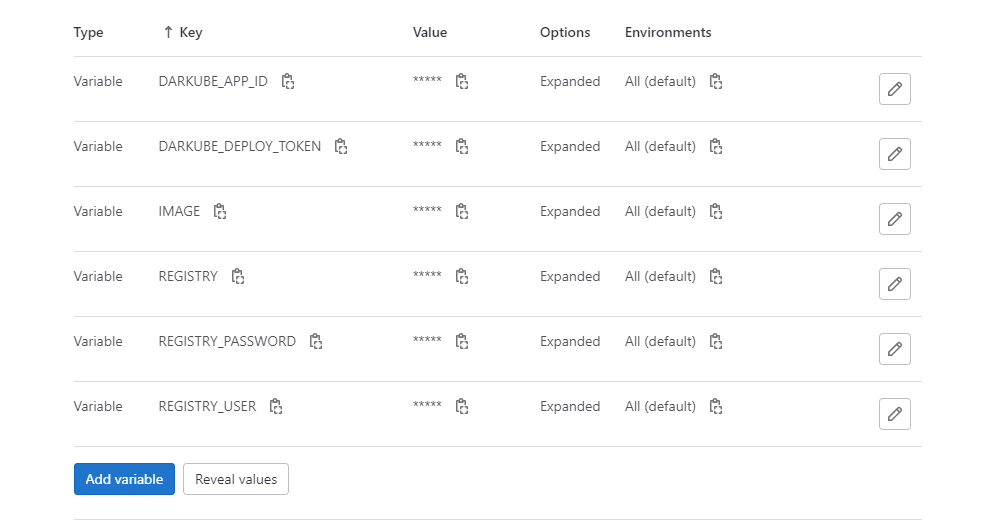
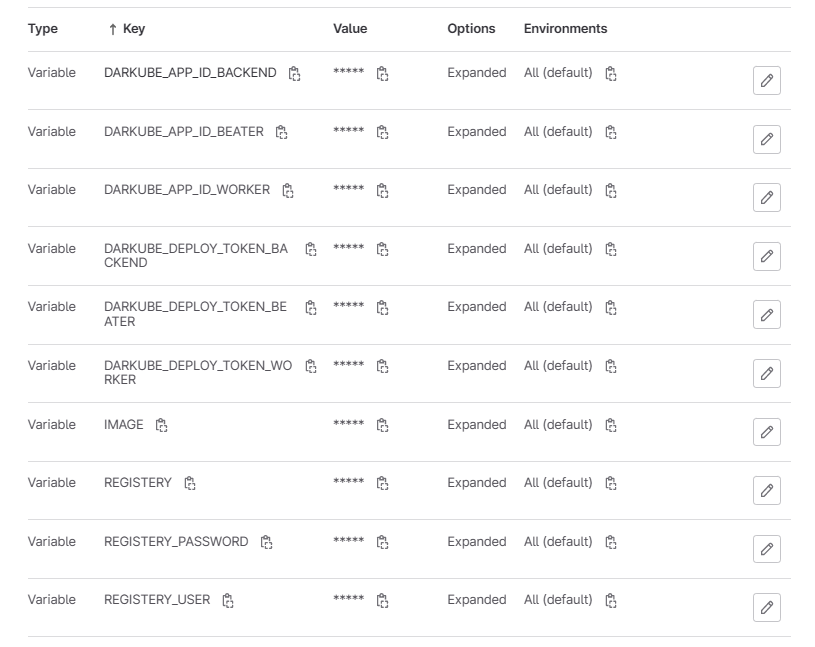
updated docs

diff --git a/README.md b/README.md
@@ -35,6 +35,8 @@
 - [CICD Deployment](#cicd-deployment)
   - [Github CICD](#github-cicd)
   - [Gitlab/Hamgit CICD](#gitlabhamgit-cicd)
+    - [Setup Worker and Beater](#setup-worker-and-beater)
+    - [Setup Environments](#setup-environments)
 - [Sentry Logger](#sentry-logger)
 - [License](#license)
 - [Bugs](#bugs)
@@ -222,10 +224,44 @@ for this section please follow the instructions for General Deployment of hamrav
 <https://github.com/AliBigdeli/Django-Hamravesh-Docker-Template#3--setup-django-app>
 
 ## 4- Setup Worker
-follow the provided steps to finish this section.
+Just Like what you have done in ```setup django app``` section you will do everything the same except that for configuration of the app there will be some minor changes 
+1 - Create the app based on repo and proceed to the general info section, and put these info:
+```properties
+app_name: my-site-worker # name of the app which is going to be called inside the portal
+service_port:  # leave this field as empty cause our service wont have outer access
+execute_command: celery -A core worker --loglevel=info
+```
+2- Environments:
+just as usual put all the environments that your project needs
+
+3- Domains:
+in this section dont add anything cause we are not going to use the app through the web, instead it will be called through the signals between apps and broker.
+
+4- plan:
+choose the correct plan for using the app, note that sometimes your app might go through loops cause of limited sources so that you need to upgrade the plan to find the better performance for that.
+
+5- Deploy:
+Lastly wait till the app is up and running correctly.
 
 ## 5- Setup Beater
-follow the provided steps to finish this section.
+Just Like what you have done in ```setup django app``` section you will do everything the same except that for configuration of the app there will be some minor changes 
+1 - Create the app based on repo and proceed to the general info section, and put these info:
+```properties
+app_name: my-site-worker # name of the app which is going to be called inside the portal
+service_port:  # leave this field as empty cause our service wont have outer access
+execute_command: celery -A core beat -l info
+```
+2- Environments:
+just as usual put all the environments that your project needs
+
+3- Domains:
+in this section dont add anything cause we are not going to use the app through the web, instead it will be called through the signals between apps and broker.
+
+4- plan:
+choose the correct plan for using the app, note that sometimes your app might go through loops cause of limited sources so that you need to upgrade the plan to find the better performance for that.
+
+5- Deploy:
+Lastly wait till the app is up and running correctly.
 
 # CICD Deployment
 For the sake of continuous integration and deployment i have provided two samples for github and gitlab/hamgit for you.
@@ -235,28 +271,45 @@ but there will be some configurations to be added for building and deploying pur
 will be provided soon
 
 ## Gitlab/Hamgit CICD
+
+### Setup Worker and Beater
+before going to configure cicd there is a little change that you need to make in the worker and beater configs in hamravesh panel, the docker image of each app should be pointed to backend image inorder for cicd to work correctly. in order to that just follow the instructions bellow:
+
+1- go to the backend app page, click on ```edit``` in ```image docker section```, then copy the provided link something like: ```registry.hamdocker.ir/bigdeliali3/my-site```
+<div align="center" ><img loading="lazy" style="width:700px" src="./docs/hamravesh-docker-image.png"></div>
+
+2- then go to the woker app page, again click on ```edit``` in ```image docker section``` , replace the link with the copied link from backend app.
+3- then go to the beater app page, again click on ```edit``` in ```image docker section``` , replace the link with the copied link from backend app.
+
+and now your good to go. 
+
+### Setup Environments
 in order to do ci/cd in the sample project for gitlab/hamgit you have to create a duplicate of the ```.gitlab-ci.yml.sample``` but with different name as ```.gitlab-ci.yml``` in the root directory.
 
 after that our pipeline will be always listening to the prod branch. if you commit in this branch it will go through the process.
 
-
 note that you have to declare 5 or more environment variables in your gitlab/hamgit project repo, which you can add it by going to ```Settings>CI/CD>Variables```, and in this section try to add all the needed variables.
+
 
 <div align="center" ><img loading="lazy" style="width:700px" src="./docs/gitlab-envs.png"></div>
 
 these variables should be included:
-- DARKUBE_APP_ID - ``` which can be found in app info page ```
-- DARKUBE_DEPLOY_TOKEN - ``` which can be found in app info page ```
+- DARKUBE_APP_ID_BACKEND - ``` which can be found in app info page of the backend project```
+- DARKUBE_DEPLOY_TOKEN_BACKEND - ``` which can be found in app info page of the backend project ```
+- DARKUBE_APP_ID_WORKER - ``` which can be found in app info page of the worker project```
+- DARKUBE_DEPLOY_TOKEN_WORKER - ``` which can be found in app info page of the worker project ```
+- DARKUBE_APP_ID_BEATER - ``` which can be found in app info page of the beater project```
+- DARKUBE_DEPLOY_TOKEN_BEATER - ``` which can be found in app info page of the beater project ```
 - IMAGE -  ``` registry.hamdocker.ir/<USERNAME>/<APPNAME> ```
 - REGISTERY - ``` registry.hamdocker.ir/<USERNAME> ```
 - REGISTERY_PASSWORD - ``` registry password ```
 - REGISTERY_USER - ``` username like 'bigdeliali3' ```
 
 
-for having ```DARKUBE_APP_ID``` and ```DARKUB_DEPLOY_TOKEN``` head to the app page and use the following parameters in the picture.
+for having ```DARKUBE_APP_ID_xxxxx``` and ```DARKUB_DEPLOY_TOKEN_xxxxx``` head to the app page and use the following parameters in the picture.
 
 <div align="center" ><img loading="lazy" style="width:700px" src="./docs/hamravesh-app-info.png"></div>
- 
+  
 for having ```REGISTRY``` and ```REGISTRY_USER``` and ```REGISTRY_PASSWORD``` head to the app page and use the following parameters in the picture.
 REGISTRY will be the url like this: ```registry.hamdocker.ir/<USERNAME>```
 and for getting the username and passwords just go to the app section and click on docker image. you will see something like this, after that click on registries.
